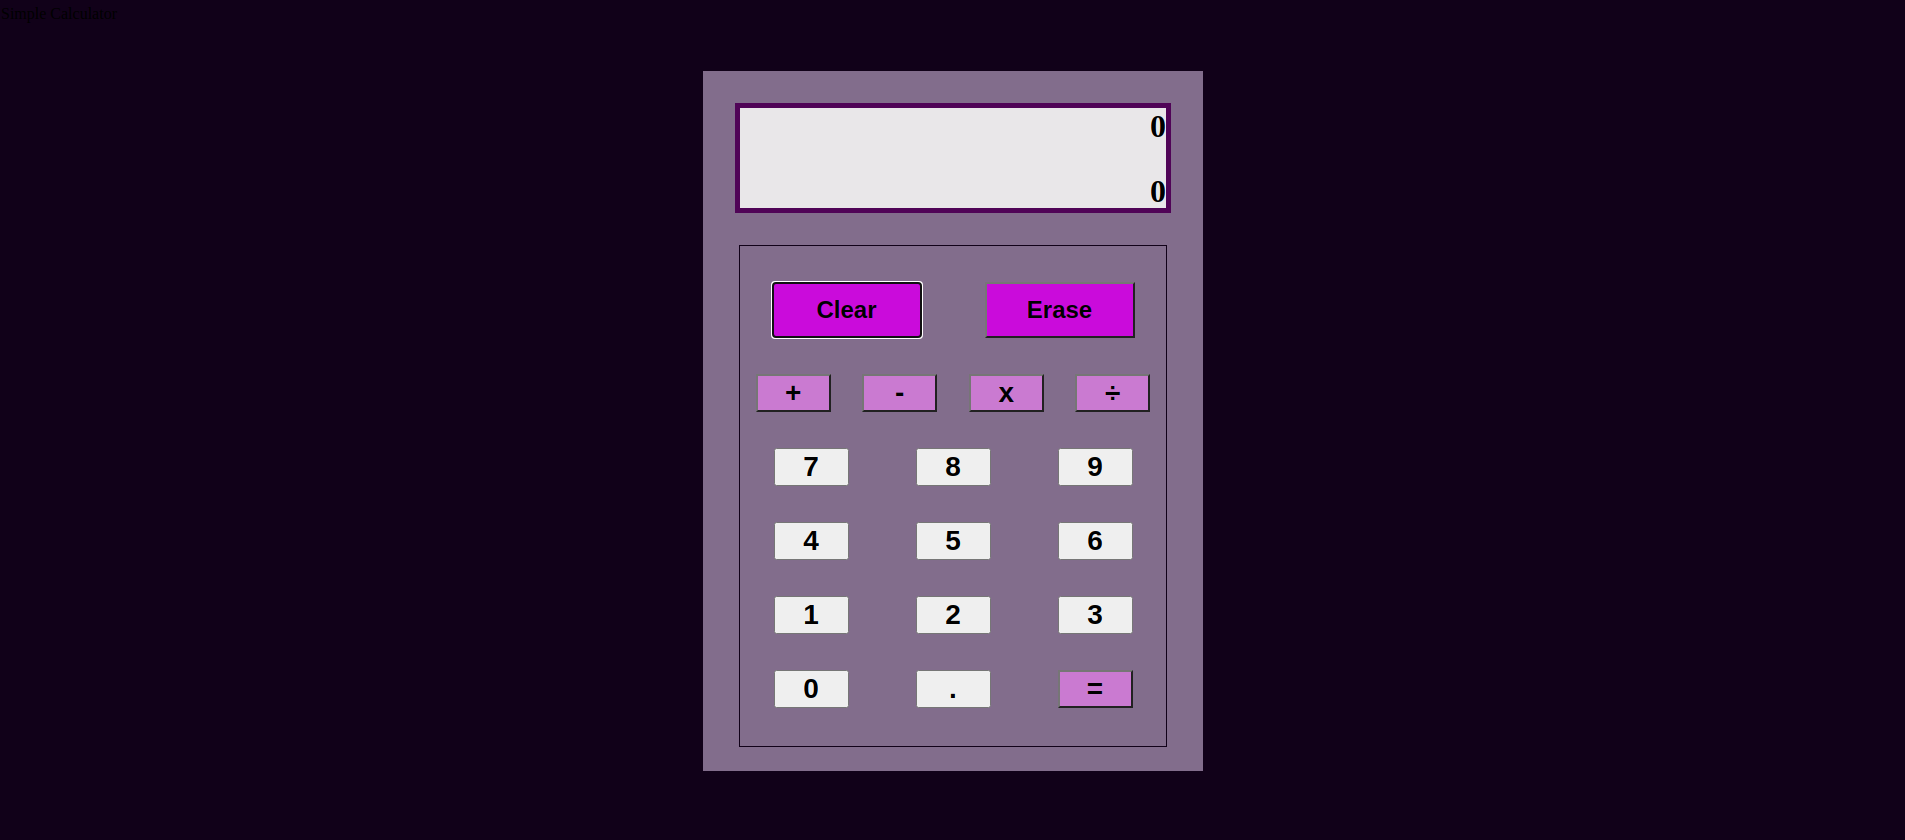
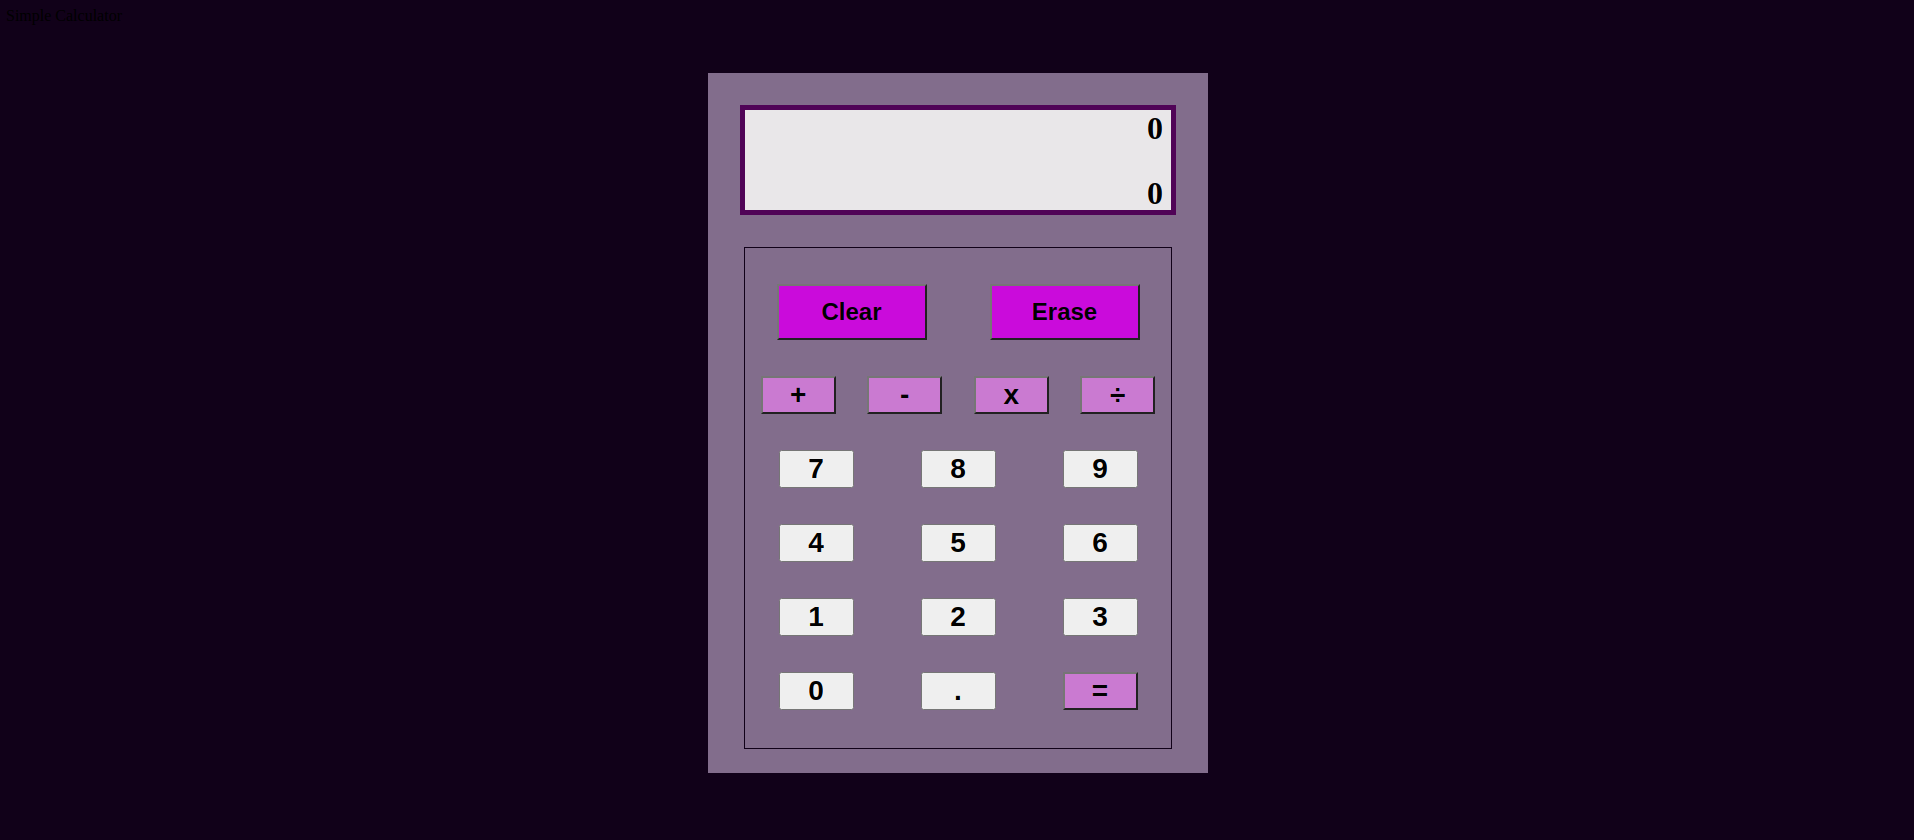
updated images for readme

diff --git a/style.css b/style.css
@@ -25,12 +25,14 @@ body {
 #history {
     font-size: 32px;
     font-weight: bold;
+    margin-right: 8px;
 }
 
 #answer {
     margin-top: 28px;
     font-size: 32px;
     font-weight: bold;
+    margin-right: 8px;
 }
 
 .calculator-keys {
